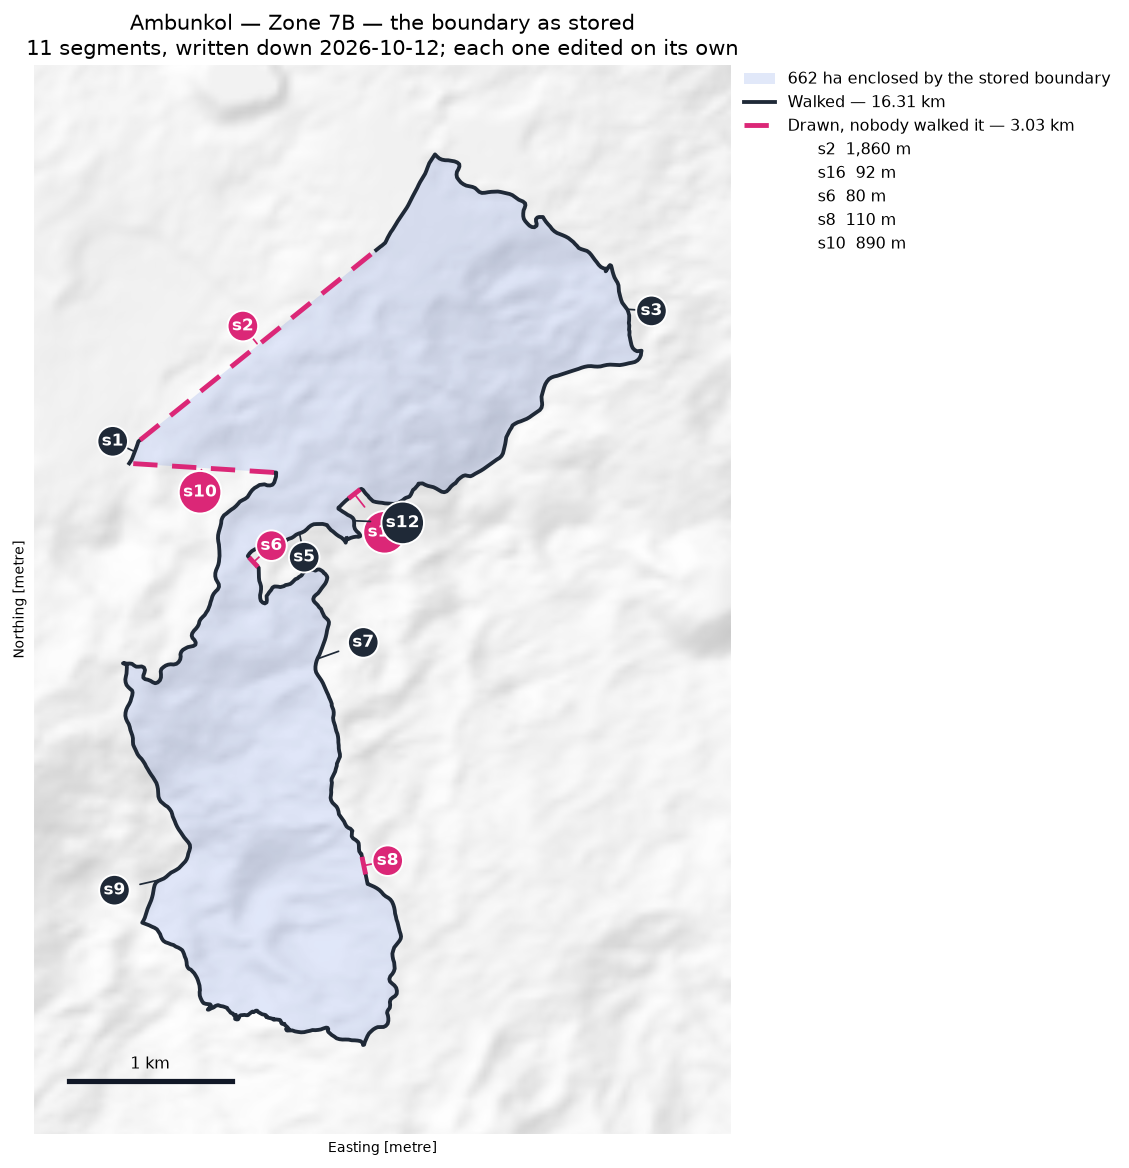
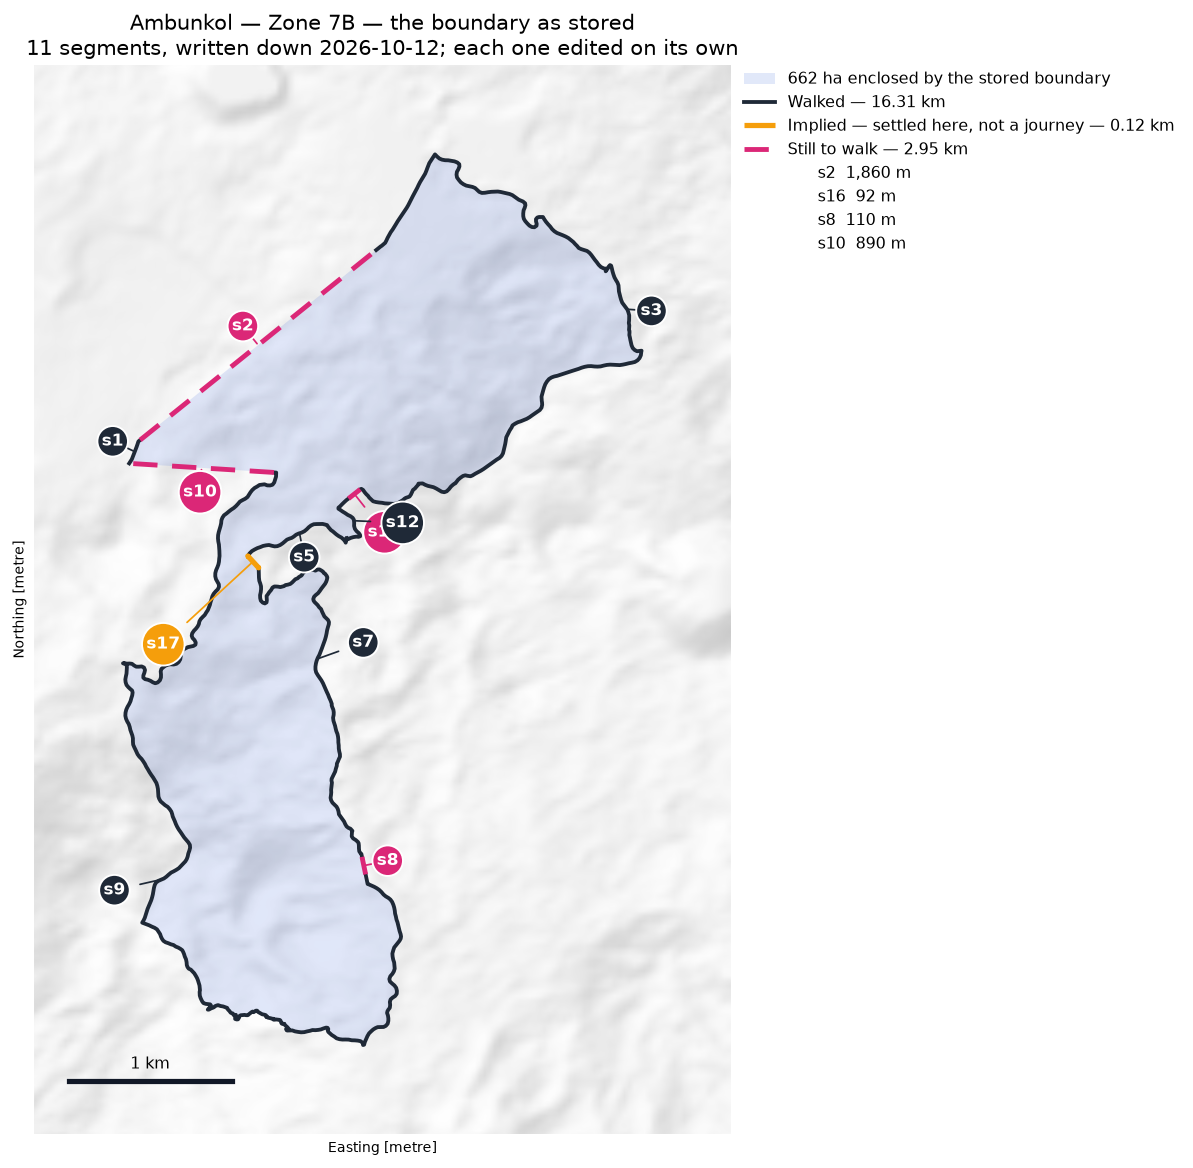
Ambunkol s6 closed as implied; a third kind of segment
The reviewer drew the boundary along the 99 m line and settled it. s6
is gone; s17 is 117 m, tied to its neighbours, and marked implied —
nobody walked it and nobody is being asked to.

That needed a third kind. A segment is now walked, implied or still to
walk, which is the vocabulary the reviewer set: walked, implied,
stated. Implied is drawn in orange, counted apart from the stretches
that are a journey, and left out of the to-walk GPX.

  11 segments, 16.31 km walked, 2.95 km still to walk, 0.12 km implied
  662.1 ha, four stretches for the field instead of five

Ten other segments byte-identical: s1, s2, s3, s5, s7, s8, s9, s10,
s12, s16.

Claude-Session: https://claude.ai/code/session_01K6X75MkuiGQ9rmgDZx45vk

diff --git a/scripts/boundary.py b/scripts/boundary.py
@@ -227,10 +227,13 @@ def summary(book: dict) -> str:
                  if s["kind"] == "walked")
     drawn = sum(s["length_m"] for s in book["segments"]
                 if s["kind"] == "drawn")
+    implied = sum(s["length_m"] for s in book["segments"]
+                  if s["kind"] == "implied")
     land = ring_geometry(book)
     out = [f"{book['unit']}   written down {book['solved']}",
            f"  {len(book['segments'])} segments, "
-           f"{walked / 1000:.2f} km walked, {drawn / 1000:.2f} km drawn"]
+           f"{walked / 1000:.2f} km walked, {drawn / 1000:.2f} km still to "
+           f"walk, {implied / 1000:.2f} km implied"]
     # An edit can leave the ring open, and saying "0.0 ha" for that is no
     # use to anybody. Say where it is open.
     loose = open_ends(book)
@@ -244,7 +247,8 @@ def summary(book: dict) -> str:
         out.append(f"  {(land.area / 1e4) if land else 0:,.1f} ha enclosed")
     out.append("")
     for seg in book["segments"]:
-        mark = "walked" if seg["kind"] == "walked" else "DRAWN "
+        mark = {"walked": "walked", "implied": "implied",
+                "drawn": "TO WALK"}.get(seg["kind"], seg["kind"])
         who = f"  {seg['steward']}" if seg.get("steward") else ""
         out.append(f"  {seg['id']:>5s}  {mark}  {seg['length_m']:8.0f} m{who}")
         for line in seg.get("history", [])[1:]:
@@ -313,12 +317,13 @@ def draw(book: dict, out: Path):
     if land is not None:
         gpd.GeoSeries([land], crs=dataio.METRIC_CRS).plot(
             ax=axis, color="#1d4ed8", alpha=0.13, edgecolor="none", zorder=2)
+    paint = {"walked": ("#1f2937", 2.2, "-"),
+             "implied": ("#f59e0b", 3.0, (0, (7, 2))),
+             "drawn": ("#db2777", 2.8, (0, (5, 3)))}
     for seg, line in lines:
-        if seg["kind"] == "walked":
-            axis.plot(*line.xy, color="#1f2937", lw=2.2, zorder=5)
-        else:
-            axis.plot(*line.xy, color="#db2777", lw=2.8,
-                      linestyle=(0, (5, 3)), zorder=6)
+        colour, width, dash = paint.get(seg["kind"], paint["drawn"])
+        axis.plot(*line.xy, color=colour, lw=width, linestyle=dash,
+                  zorder=5 if seg["kind"] == "walked" else 6)
     step = (window[2] - window[0]) * 0.035
     for seg, line in lines:
         middle = line.interpolate(0.5, normalized=True)
@@ -340,7 +345,7 @@ def draw(book: dict, out: Path):
         if spot is None:
             spot = Point(middle.x - dy / span * step,
                          middle.y + dx / span * step)
-        colour = "#1f2937" if seg["kind"] == "walked" else "#db2777"
+        colour = paint.get(seg["kind"], paint["drawn"])[0]
         axis.annotate(seg["id"], (middle.x, middle.y),
                       xytext=(spot.x, spot.y), fontsize=9.5,
                       fontweight="bold", color="white", ha="center",
@@ -360,6 +365,8 @@ def draw(book: dict, out: Path):
                  if s["kind"] == "walked")
     drawn = sum(s["length_m"] for s in book["segments"]
                 if s["kind"] == "drawn")
+    implied = sum(s["length_m"] for s in book["segments"]
+                  if s["kind"] == "implied")
     handles = [
         plt.Rectangle((0, 0), 1, 1, facecolor="#1d4ed8", alpha=0.13,
                       edgecolor="none",
@@ -367,8 +374,11 @@ def draw(book: dict, out: Path):
                             f"enclosed by the stored boundary"),
         Line2D([0], [0], color="#1f2937", lw=2.2,
                label=f"Walked — {walked / 1000:.2f} km"),
+        Line2D([0], [0], color="#f59e0b", lw=3.0, linestyle=(0, (7, 2)),
+               label=f"Implied — settled here, not a journey — "
+                     f"{implied / 1000:.2f} km"),
         Line2D([0], [0], color="#db2777", lw=2.8, linestyle=(0, (5, 3)),
-               label=f"Drawn, nobody walked it — {drawn / 1000:.2f} km"),
+               label=f"Still to walk — {drawn / 1000:.2f} km"),
     ]
     for seg in book["segments"]:
         if seg["kind"] != "drawn":
